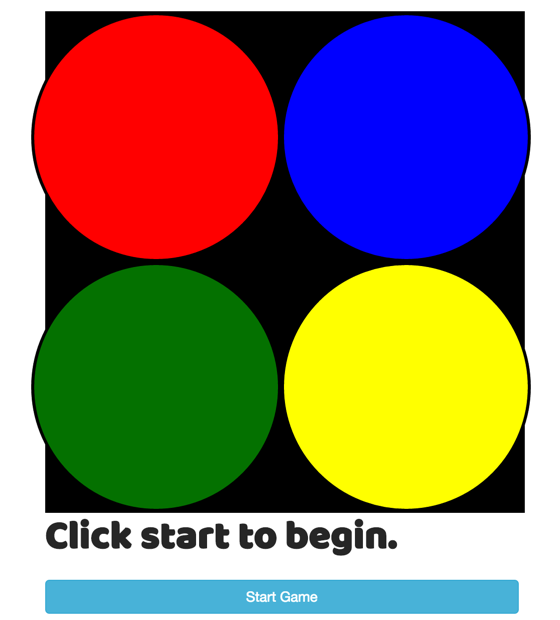
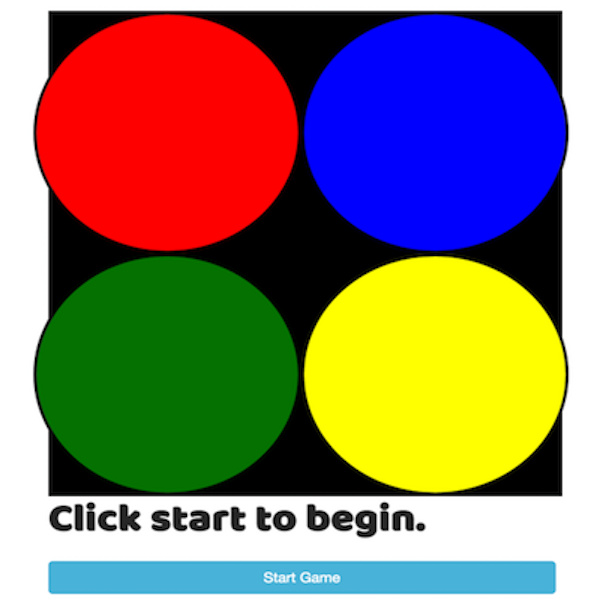
Shapped the carousel images so they have the same size

diff --git a/public/index.html b/public/index.html
@@ -154,7 +154,7 @@
                     <div class="carousel-inner" role="listbox">
                         <div class="item active">
                             <a href="../../simplesimon.dev/public/index.html" title="simple simon game">
-                                <img src="/img/simpleSimon.png" alt="First slide" class="img-carousel">
+                                <img src="/img/simpleSimon.png" alt="First slide" class="img-carousel img-center img-carousel">
                             </a>
                         <div class="carousel-caption">
                             <h3>Simple Simon Game</h3>
@@ -162,7 +162,7 @@
                         </div>
                         <div class="item">
                             <a href="" title=""> 
-                                <img src="/img/weatherApi.png" alt="Second slide" class="img-carousel">
+                                <img src="/img/weatherApi.png" alt="Second slide" class="img-carousel img-center img-carousel">
                             </a>
                             <div class="carousel-caption">
                                 <h3>Weather API and Google Maps API</h3>
@@ -170,7 +170,7 @@
                         </div>
                         <div class="item">
                             <a href="" title=""> 
-                                <img src="/img/calculator.png" alt="Third slide" class="img-carousel">
+                                <img src="/img/calculator.png" alt="Third slide" class="img-carousel img-center img-carousel">
                             </a>
                             <div class="carousel-caption">
                                 <h3>Calculator</h3>

diff --git a/public/css/index.css b/public/css/index.css
@@ -67,4 +67,9 @@ footer
     padding:5px;
     
 }
+
+.img-carousel{
+    height:400px;
+    width: 400px;
+}
 /*css for resume*/
